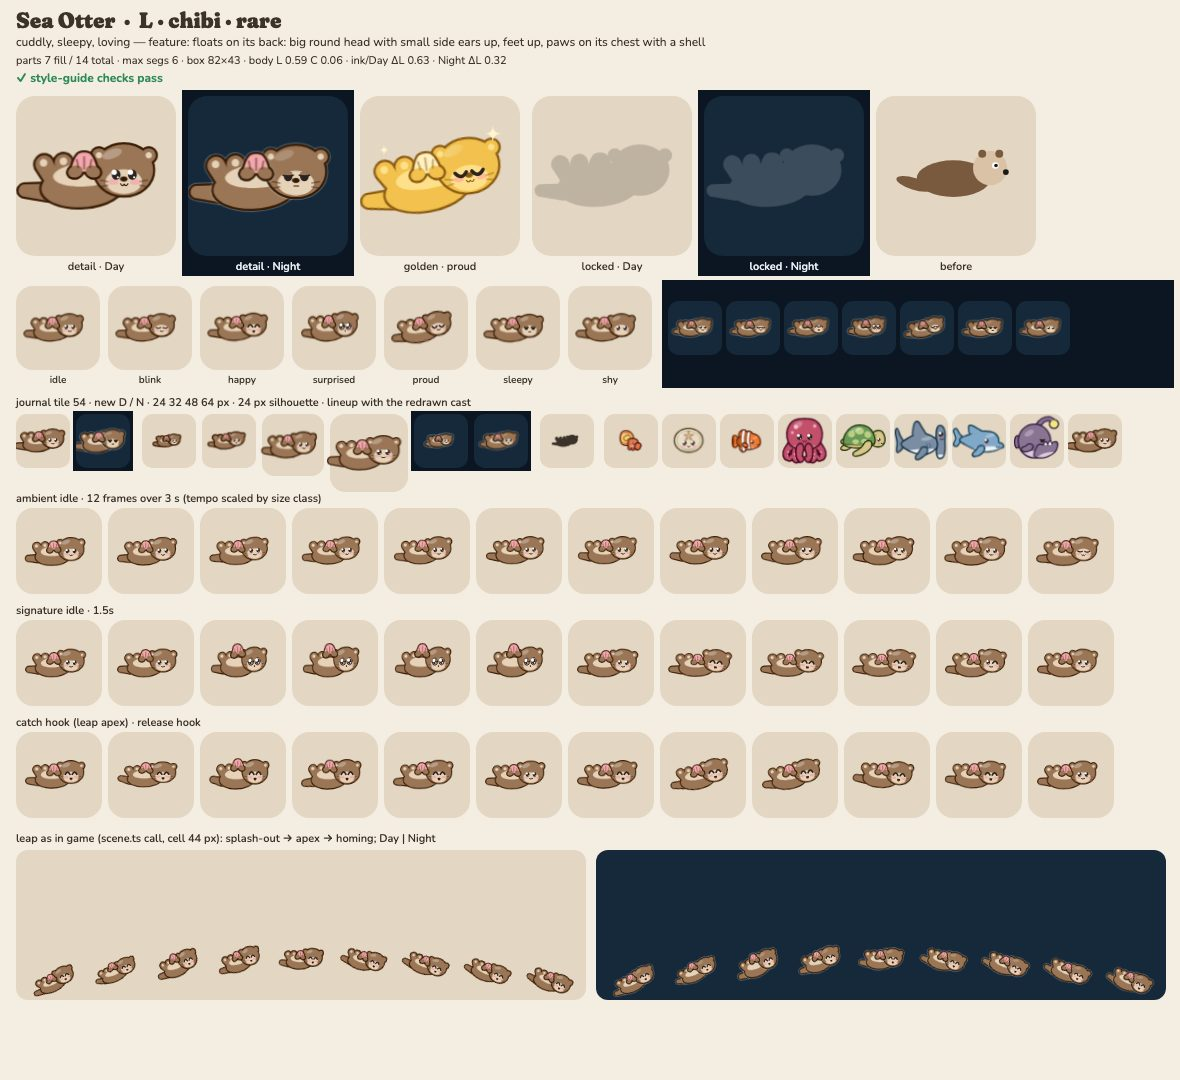
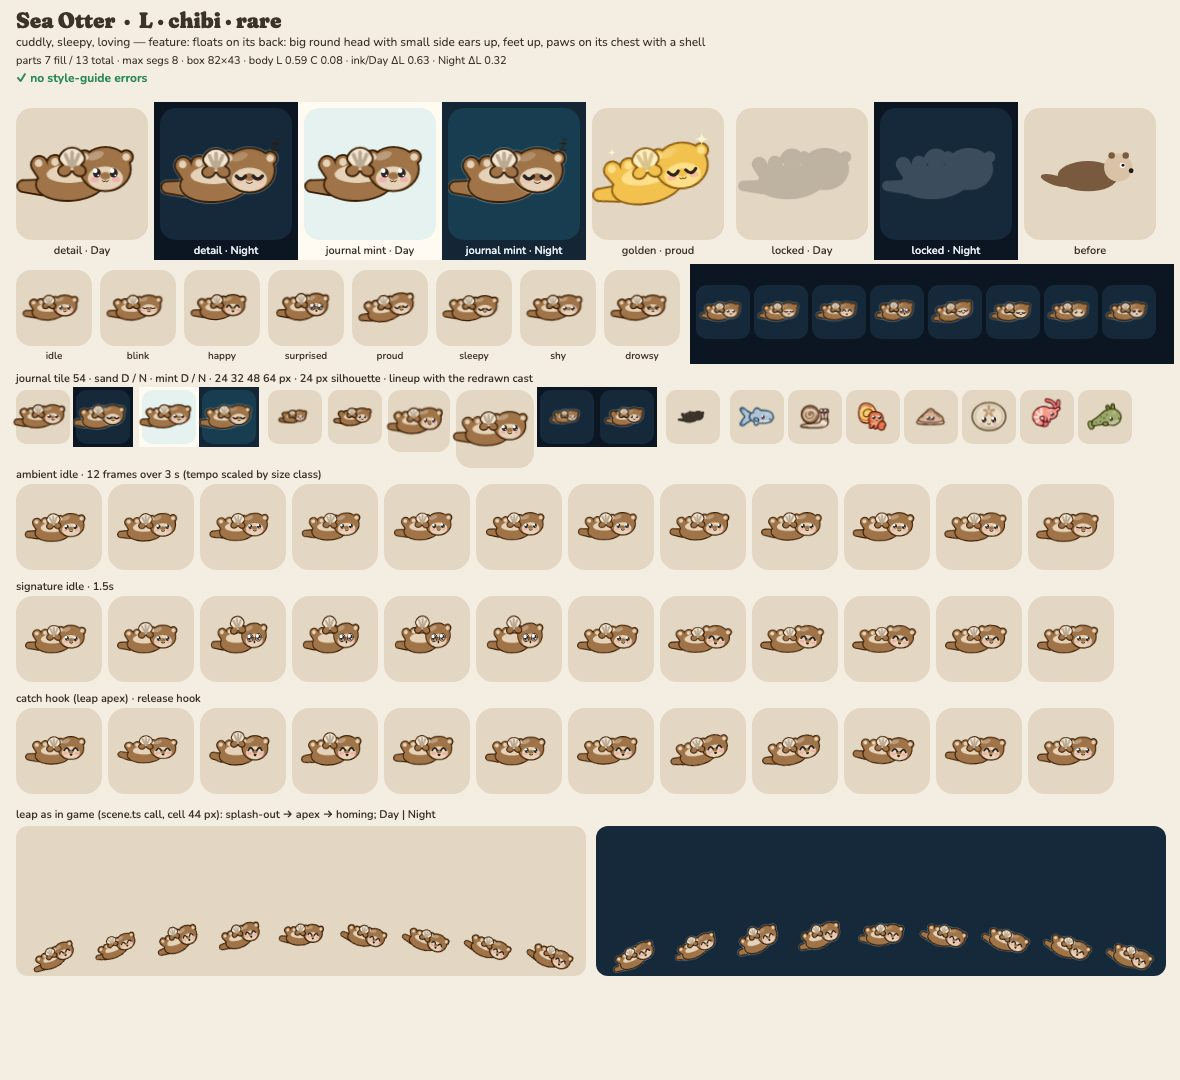
art: otter — cream scallop, bigger face mask, contented night (ADR 0011)
CRITIQUE-1 B: shell is a cream 3-rib scallop, muzzle +15%, eyes spread so
closed sleepy arcs don't meet, whiskers and ink nose dropped, body chroma
0.082, eye at the floor. Lint-clean; closest flounder 0.71 (cross-class).

diff --git a/src/render/art/species/otter.ts b/src/render/art/species/otter.ts
@@ -3,7 +3,7 @@
  * Silhouette: a plump body lying along the water, a big round head with two small side ears at
  * the right end, little feet poking up at the left, a tail, and paws on its chest holding a shell
  * (R10: the back-float with the head up and the feet up).
- * Palette: `#7A5A3E` lifted to `#9A7656` (R16 floor), cream face and chest, a pink shell.
+ * Palette: `#7A5A3E` lifted to `#A07448` (R16 floor, chroma 0.08), cream face and chest, a cream shell.
  * Personality: cuddly, sleepy, loving (sweet: blush always on).
  * Signature: holds the shell up to show you, then hugs it to its chest, with a wink.
  */
@@ -15,15 +15,17 @@ const head = ellipse(22, -3, 20, 17.5);
 const ears = join(circle(5, -13, 4.8), circle(39, -13, 4.8));
 const feet = join(capsule(-27, 2, 5.5, -32, -7, 6.2), capsule(-17, 1, 5.5, -19, -8, 6));
 const tail = capsule(-30, 12, 6, -45, 11, 4.4);
-// a little scallop shell held on the chest, with two paws over its lower edge
+// a cream scallop shell (a fan with three ribs) held on the chest, with two paws over its lower edge
 const shell = blob(
   [
-    [-13, -4],
-    [-10, -13],
-    [-5, -15],
-    [0, -13],
-    [3, -4],
     [-5, -2],
+    [-12, -7],
+    [-15, -12],
+    [-11, -18],
+    [-5, -20],
+    [1, -18],
+    [5, -12],
+    [2, -7],
   ],
   1,
 );
@@ -35,7 +37,7 @@ export default defineArt({
   size: 'L',
   feature: 'floats on its back: big round head with small side ears up, feet up, paws on its chest with a shell',
   personality: ['cuddly', 'sleepy', 'loving'],
-  palette: { body: '#9A7656', accent: '#F4A7AE', belly: '#E6D2B8' },
+  palette: { body: '#A07448', accent: '#F3E6D2', belly: '#E6D2B8' },
   groups: [
     { id: 'tail', pivot: [-30, 12], parts: [{ d: tail, role: 'body', extra: true }] },
     {
@@ -44,7 +46,7 @@ export default defineArt({
         { d: feet, role: 'body' },
         { d: body, role: 'body' },
         { d: ellipse(-4, 0, 22, 8, -4), role: 'belly', kind: 'pattern' },
-        { d: join(circle(-32.5, -8, 2.6), circle(-19, -9, 2.6)), role: 'belly', kind: 'pattern' },
+        { d: join(circle(-32.5, -8, 3.2), circle(-19, -9, 3.2)), role: 'belly', kind: 'pattern' },
       ],
     },
     {
@@ -53,10 +55,9 @@ export default defineArt({
       parts: [
         { d: ears, role: 'body' },
         { d: head, role: 'body' },
-        { d: join(circle(5, -13, 2.2), circle(39, -13, 2.2)), role: 'belly', kind: 'pattern' },
-        { d: ellipse(22, 5, 12.5, 8.5), role: 'belly', kind: 'pattern' },
-        { d: ellipse(22, 3.2, 2.6, 1.8), role: 'ink', kind: 'pattern' },
-        { d: 'M11 5L6 4M11 7.5L6 8.5M33 5L38 4M33 7.5L38 8.5', role: 'ink', kind: 'line', w: 1.1, alpha: 0.45 },
+        { d: join(circle(5, -13, 3.1), circle(39, -13, 3.1)), role: 'belly', kind: 'pattern' },
+        { d: ellipse(22, 4.5, 14.4, 9.8), role: 'belly', kind: 'pattern' },
+        { d: ellipse(22, 2.6, 4.2, 3.2), role: 'body', kind: 'pattern' },
       ],
     },
     {
@@ -64,7 +65,7 @@ export default defineArt({
       pivot: [-5, 0],
       parts: [
         { d: shell, role: 'accent' },
-        { d: 'M-5 -4L-5 -12M-9 -5L-10 -10M-1 -5L0 -10', role: 'ink', kind: 'line', w: 1.2, alpha: 0.5 },
+        { d: 'M-6 -5L-10.5 -15M-5 -5L-5 -17M-4 -5L0.5 -15', role: 'ink', kind: 'line', w: 3, alpha: 0.3 },
         { d: paws, role: 'body' },
       ],
     },
@@ -74,10 +75,10 @@ export default defineArt({
   face: {
     g: 'head',
     eyes: [
-      [16.5, 0],
-      [27.5, 0],
+      [15.1, 0],
+      [28.9, 0],
     ],
-    eye: 7,
+    eye: 7.6,
     zone: [2, -21, 40, 36],
     mouth: { at: [22, 6.4], w: 5, shape: 'w' },
     front: true,

diff --git a/docs/art/notes/fleet-5.md b/docs/art/notes/fleet-5.md
@@ -156,3 +156,15 @@ Species: hammerhead, dolphin, whaleshark, angler, otter, goldturtle. Sheets in `
   longer a squint at 24–32 px; lure highlight 6.2 units (R18W); body `#8E6E9F` (chroma 0.082,
   R16S). Lint-clean; closest sanddollar 0.73 (cross-class, limit 0.80), fish all < 0.67.
 - **Self-grade:** A.
+
+## otter — B → fixes
+- **Fixes:** the chest shell (read as a brain) is now a cream `#F3E6D2` scallop fan with 3 soft
+  ribs; the face mask is 15 % bigger so the head pops at 24 px; eye 7.6 (floor 7.4); body
+  `#A07448` (chroma 0.082); pads, inner ears and nose ≥ 6 units; the ink nose became a body-brown
+  nose (R18E: no eye-coloured pattern beside the eyes); hairline whiskers dropped (R2L).
+- **Rounds (3):** (1) lint fixes + shell + mask, whiskers at 3 u; (2) on Night the sleepy arcs plus
+  whiskers read as a moustache: whiskers removed, nose bigger; (3) the two closed arcs still met in
+  the middle (moustache again): eyes spread to 2.1 eye-widths. Night now reads contented.
+- **Self-grade:** A-. Lint-clean; closest flounder 0.71 (cross-class), cuttle 0.67 (chibi, < 0.70).
+- **Would improve:** the back-float is wide and short, so it still fills less of the tile than the
+  other L species.
